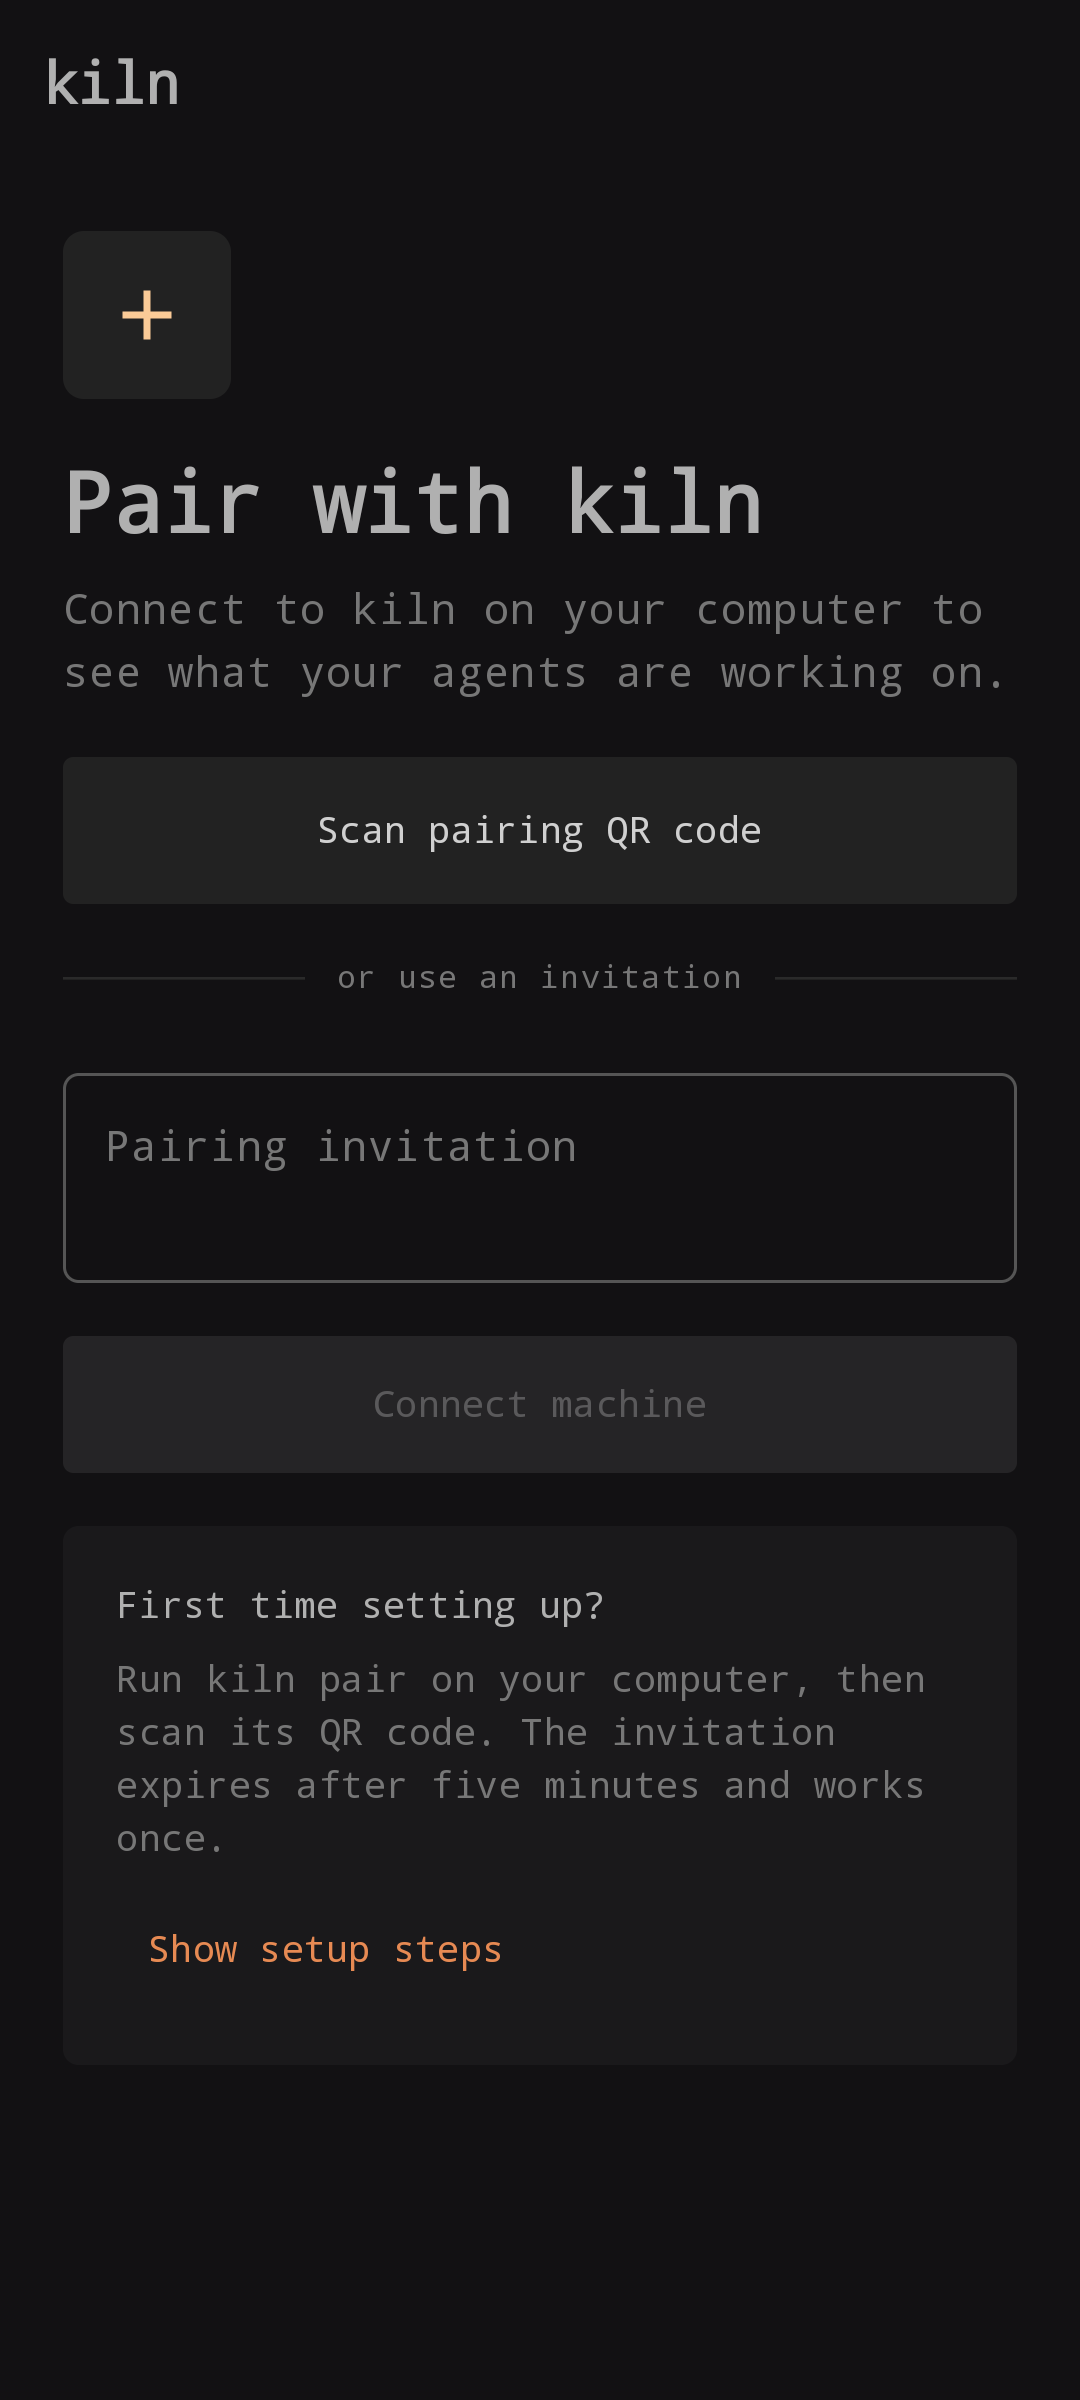
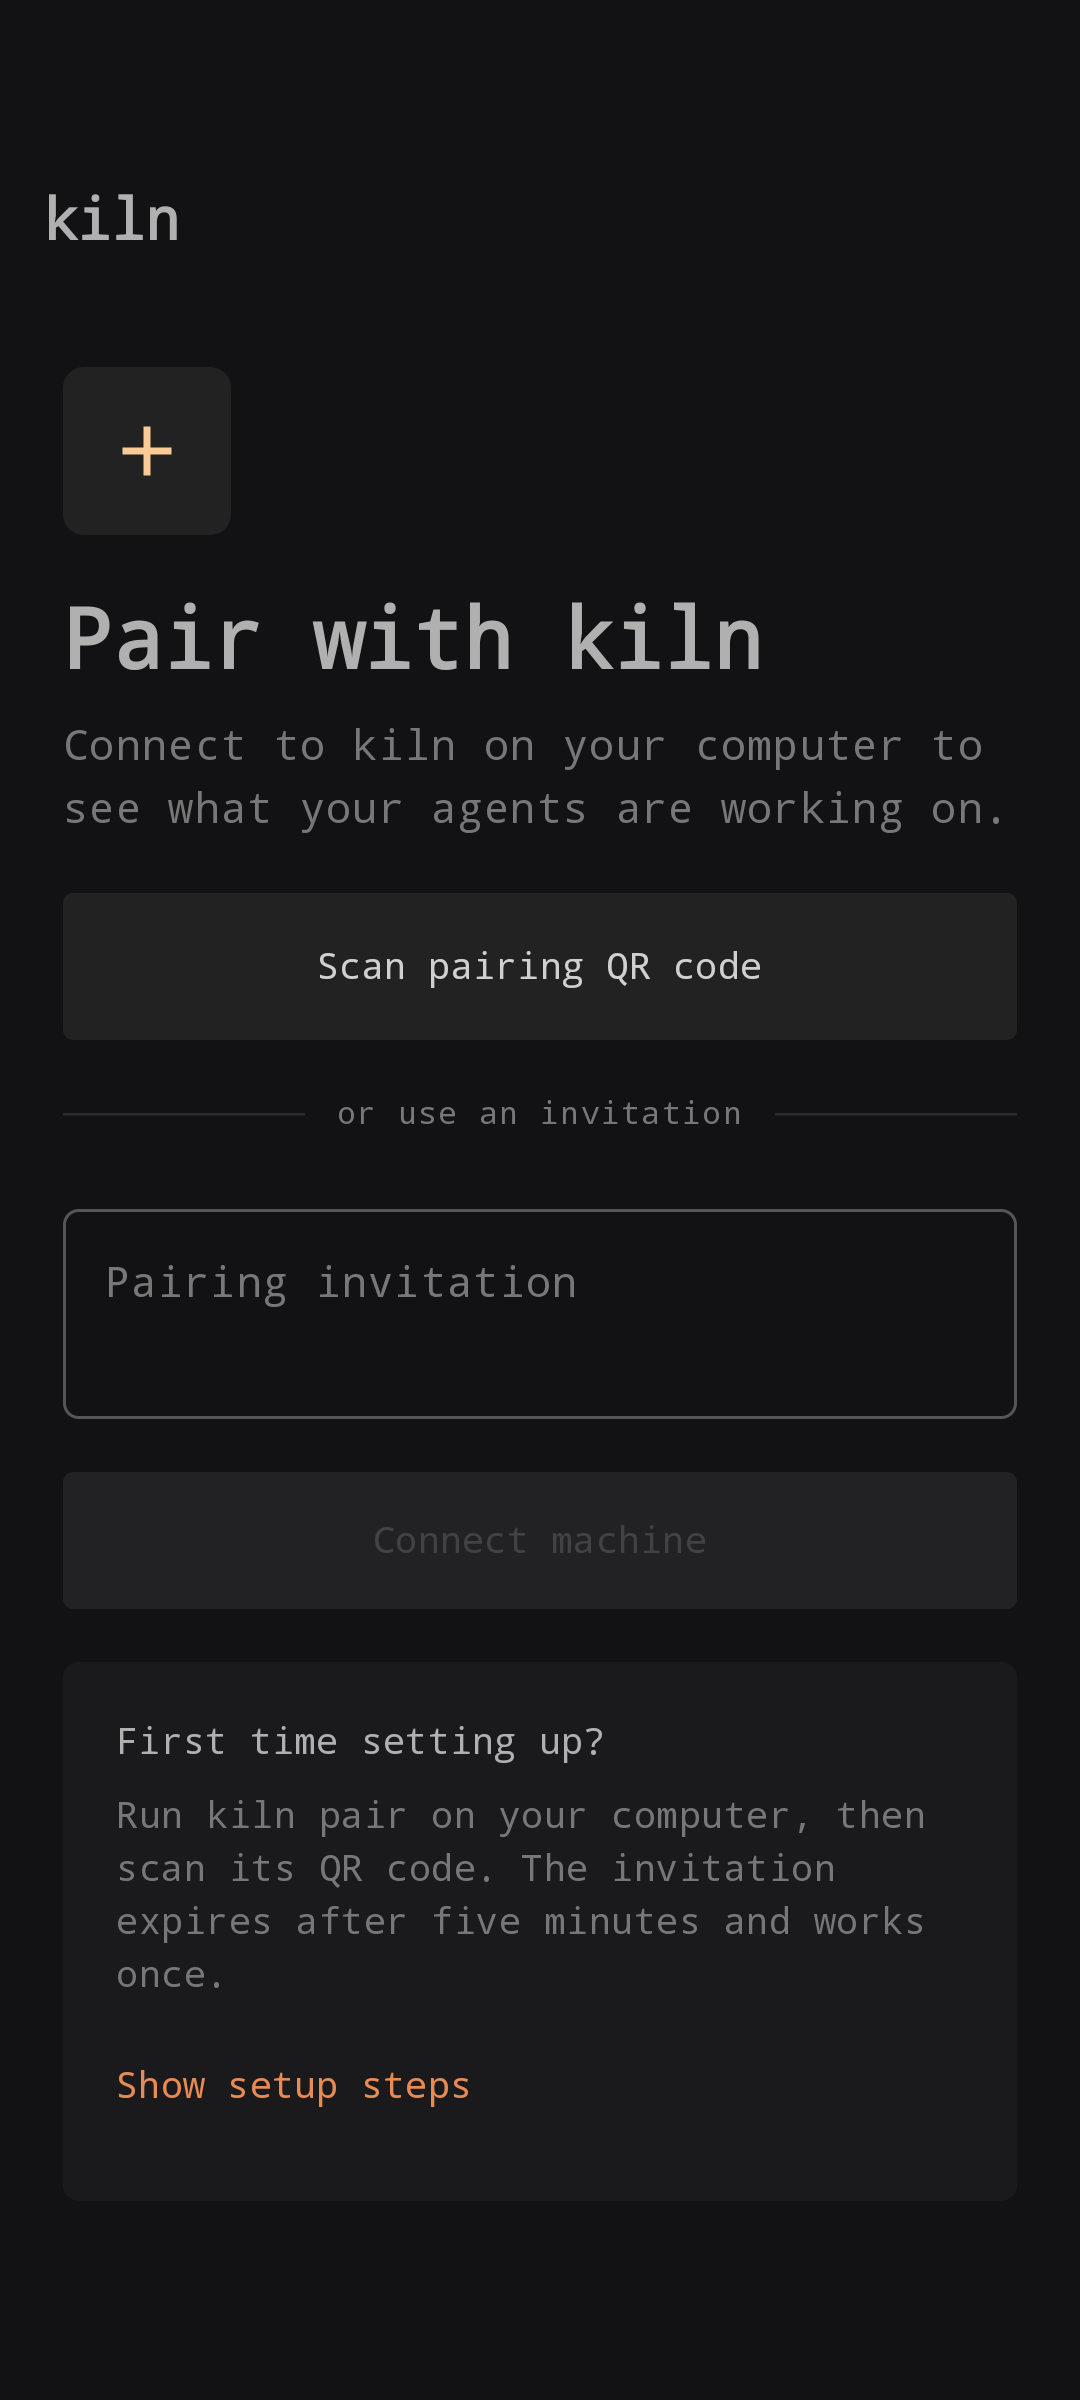
docs: regenerate the Android pairing screenshot (#128)
## Summary
- Recaptured `assets/android-pairing.png` (1080x2400) from the current
app with `scripts/android-screenshots.py` on the dedicated
`kiln-screenshots` emulator.
- Copied it to `site/img/android-pairing.png`, which was an identical
copy.
- Restored the pairing screenshot in the README's Android section,
between the session list and the provider handoff. It was dropped from
the README in #36.

The list and handoff screenshots were recaptured by the same run but
left unchanged here.

## Test plan
- [x] Inspected the new image: seeded pairing screen, QR button, empty
invitation field, setup hint, no broken state
- [x] biome, tsc, bun test, changelog check, sloppatrol gate and agents
check

🤖 Generated with [Claude Code](https://claude.com/claude-code)

https://claude.ai/code/session_01BVTqPzSZ1iKTMw5J7eaw9X

diff --git a/README.md b/README.md
@@ -135,7 +135,7 @@ Claude cloud listing is opt-in because it uses Claude's internal API. It reads a
 
 ## Android
 
-<img src="assets/android-list.png" width="270" alt="Android session list" /> <img src="assets/android-handoff.png" width="270" alt="Android provider handoff" />
+<img src="assets/android-list.png" width="270" alt="Android session list" /> <img src="assets/android-pairing.png" width="270" alt="Android pairing screen" /> <img src="assets/android-handoff.png" width="270" alt="Android provider handoff" />
 
 Install the APK from the repository's releases. To get updates on the phone, add `https://github.com/cjber/kiln` to [Obtainium](https://obtainium.imranr.dev); each release carries the same signing key. The phone lists native sessions and cloud tasks. On a computer with phone writes on, a Claude, Codex, OpenCode or Pi session opens in the app as a live conversation you can reply to, and Stop ends the turn of a Claude, Codex or Pi session kiln started. A reply sent while the agent is working waits in kiln's mailbox and is sent when the turn ends. Opening any other linked session uses the provider's installed app or browser through verified HTTPS links. Claude Remote Control and connected Codex Remote Control provide direct session links. OpenCode sessions open in OpenCode's own web UI on your computer, reached over Tailscale. Sessions without mobile access explain how to open them on the computer.
 
